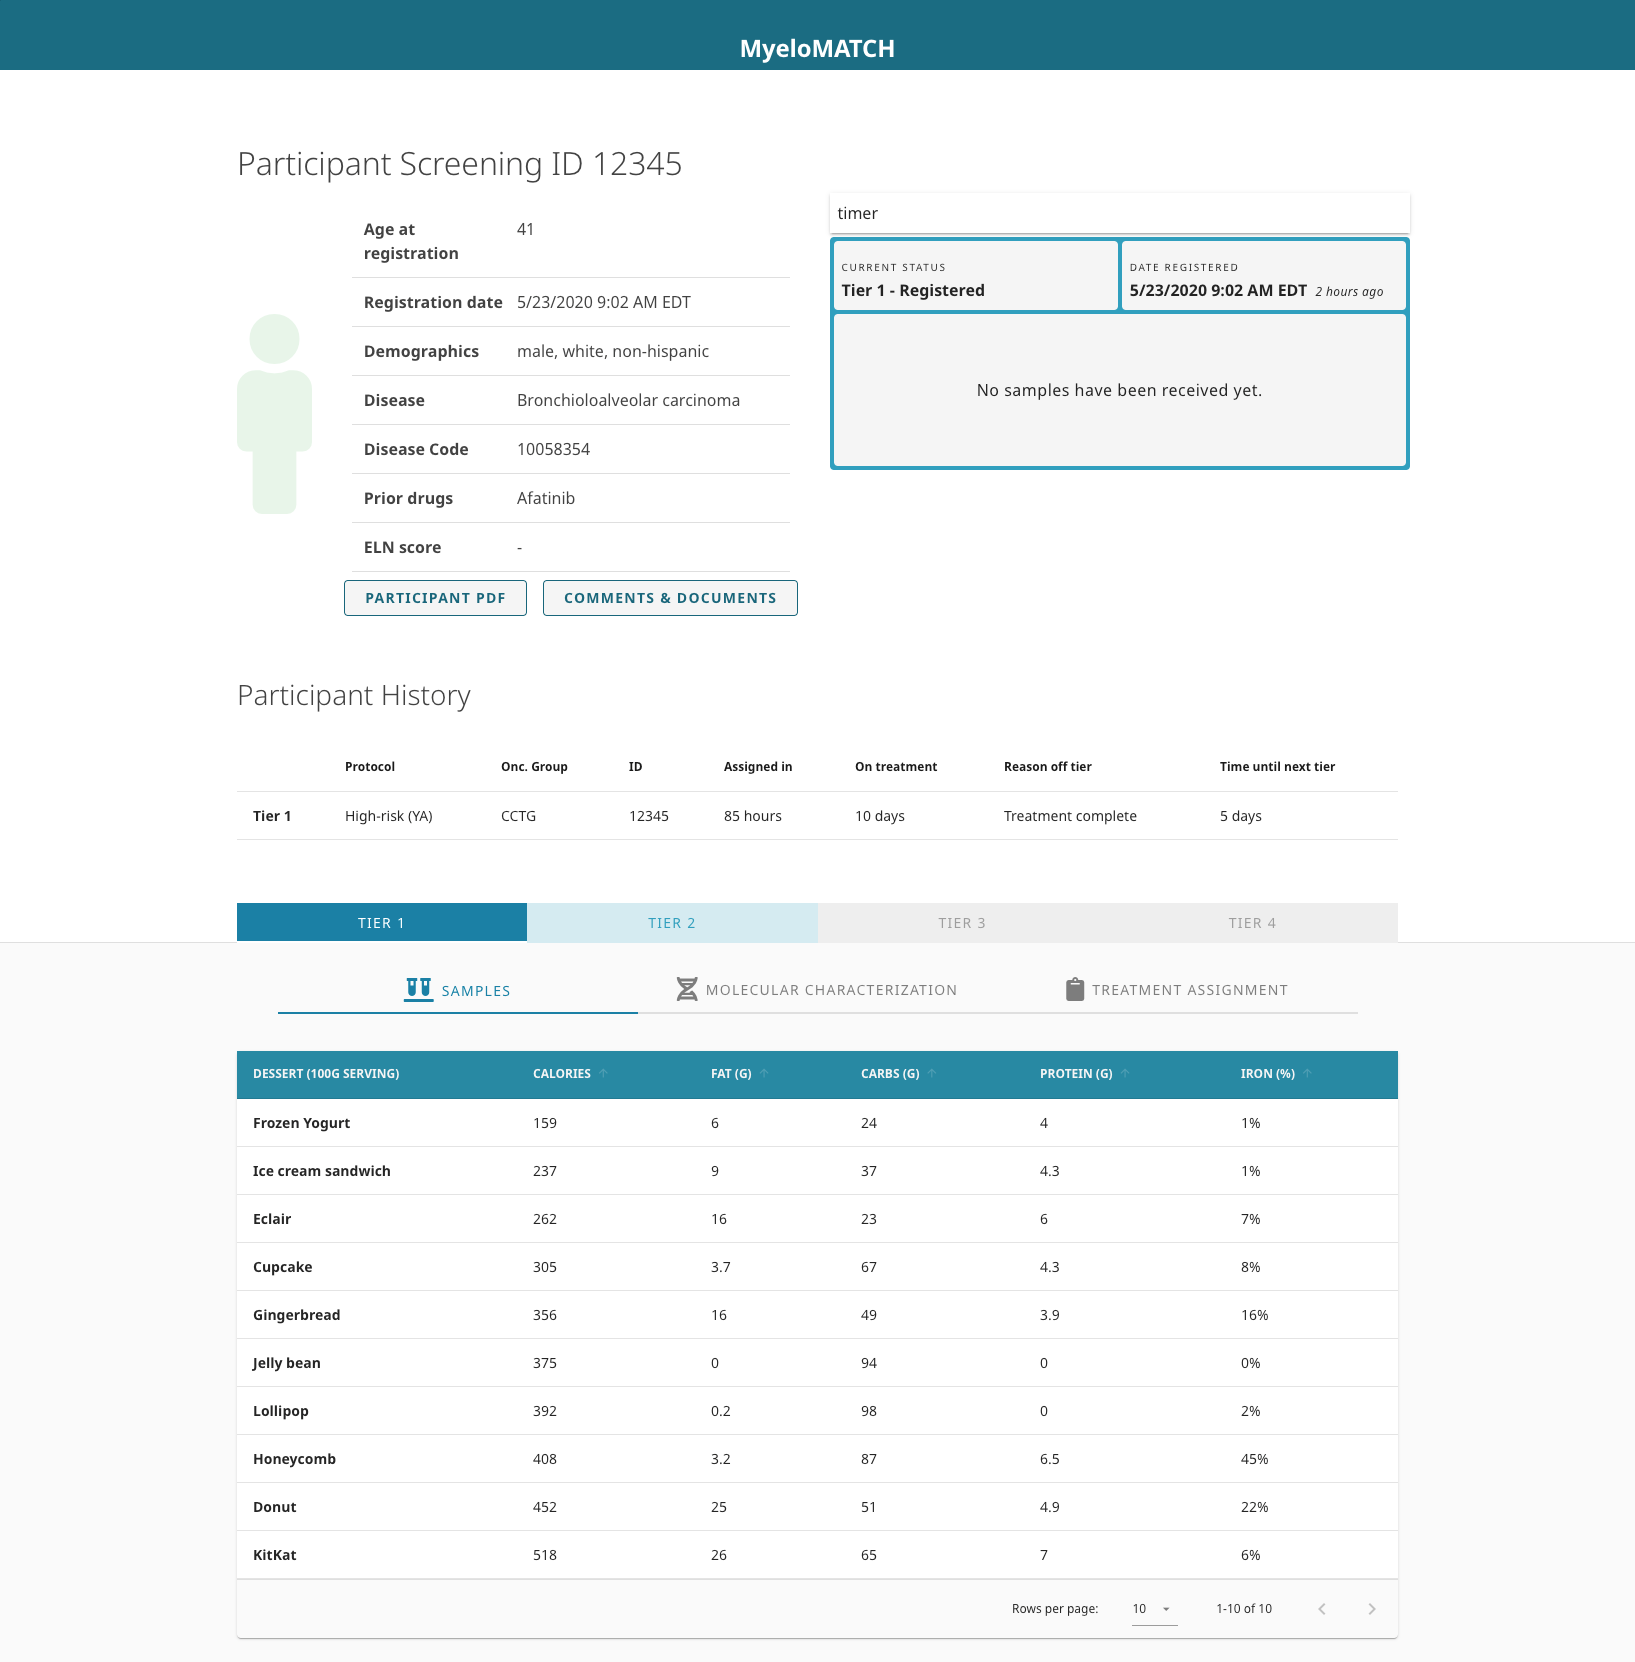
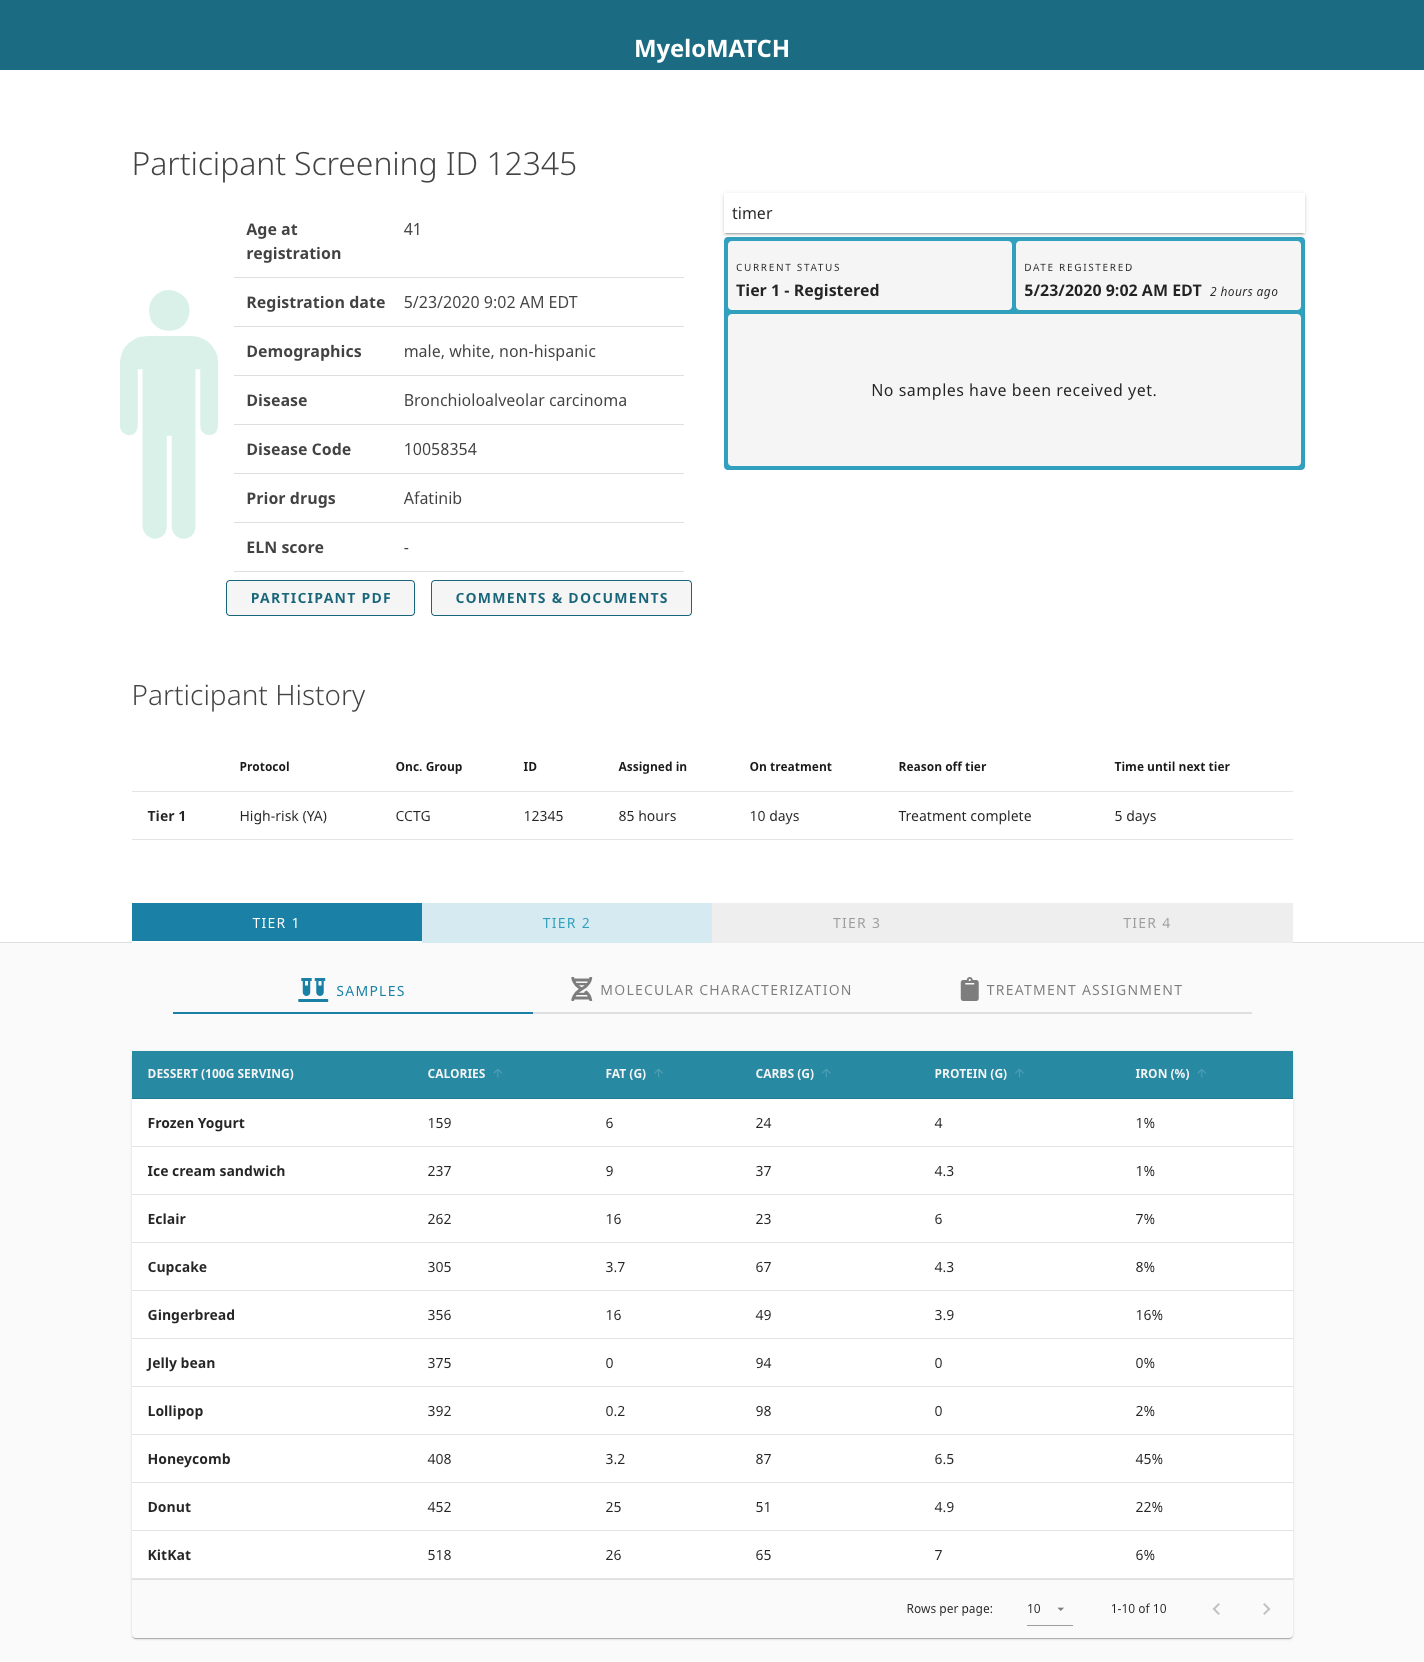
stretched people graphics

diff --git a/sandbox-girl.html b/sandbox-girl.html
@@ -117,7 +117,7 @@
                 <v-img
                   contain
                   aria-hidden="true"
-                  src="img/woman-green.svg"
+                  src="img/woman-green-nar.svg"
                 ></v-img>
               </v-col>
               <v-col cols="12" md="5" sm="10" class="pl-0">

diff --git a/sandbox.html b/sandbox.html
@@ -117,7 +117,7 @@
                 <v-img
                   contain
                   aria-hidden="true"
-                  src="img/man-green.svg"
+                  src="img/man-green-nar.svg"
                 ></v-img>
               </v-col>
               <v-col cols="12" md="5" sm="10" class="pl-0">
